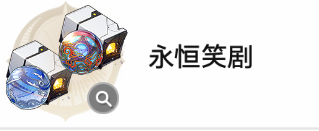
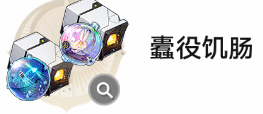
feat: 4.1新副本

diff --git a/tasks/TrailblazePowerTask.py b/tasks/TrailblazePowerTask.py
@@ -265,6 +265,10 @@ class TrailblazePowerTask(BaseTask):
         if not self.operator.wait_img(TPIMG.ORNAMENT_EXTRACTION_PAGE, timeout=20):  # 等待传送
             logger.error(SRAError(ErrorCode.WAIT_TIMEOUT, "等待页面加载超时", f"当前关卡：{level}"))
             return False
+        if self.operator.locate(TPIMG.NO_SAVE):
+            logger.warning(SRAError(ErrorCode.NO_SAVE, "当前暂无可用存档，请前往[差分宇宙]获取存档"))
+            self.operator.press_key("esc", presses=2, interval=1)
+            return False
         if single_time is not None:
             for _ in range(single_time - 1):
                 self.operator.sleep(0.2)

diff --git a/SRAFrontend/ViewModels/TaskPageViewModel.cs b/SRAFrontend/ViewModels/TaskPageViewModel.cs
@@ -80,6 +80,7 @@ public partial class TaskPageViewModel : PageViewModel
                 Levels = new[]
                 {
                     "---选择副本---",
+                    "鎏金追忆（朋克洛德/千星城）",
                     "西风丛中（翁法罗斯/天国@直播间）",
                     "月下朱殷（妖精/海隅）",
                     "纷争不休（拾骨地/巨树）",

diff --git a/tasks/img.py b/tasks/img.py
@@ -77,6 +77,7 @@ class TPIMG:
     LIMIT = f"{BASE}/limit.png"
     ORNAMENT_EXTRACTION = f"{BASE}/ornament_extraction (%s).png"
     ORNAMENT_EXTRACTION_NO_SAVE = f"{BASE}/ornament_extraction_no_save.png"
+    NO_SAVE = f"{BASE}/no_save.png"
     ORNAMENT_EXTRACTION_PAGE = f"{BASE}/ornament_extraction_page.png"
     PLUS = f"{BASE}/plus.png"
     QUIT_BATTLE = f"{BASE}/quit_battle.png"
